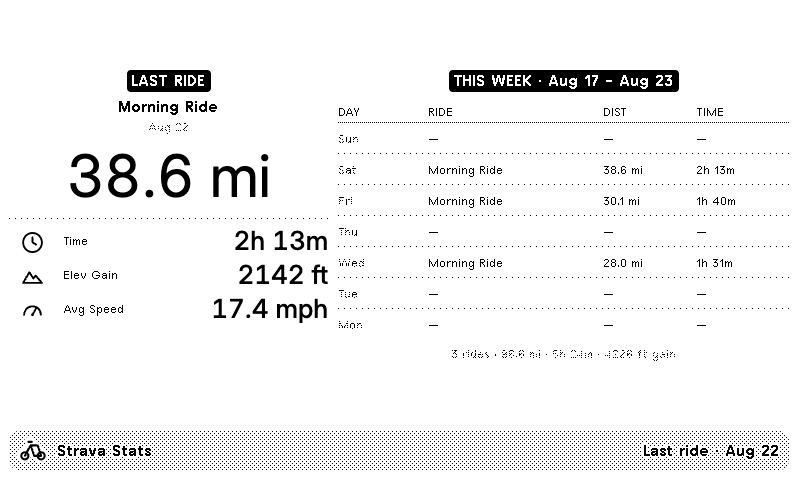
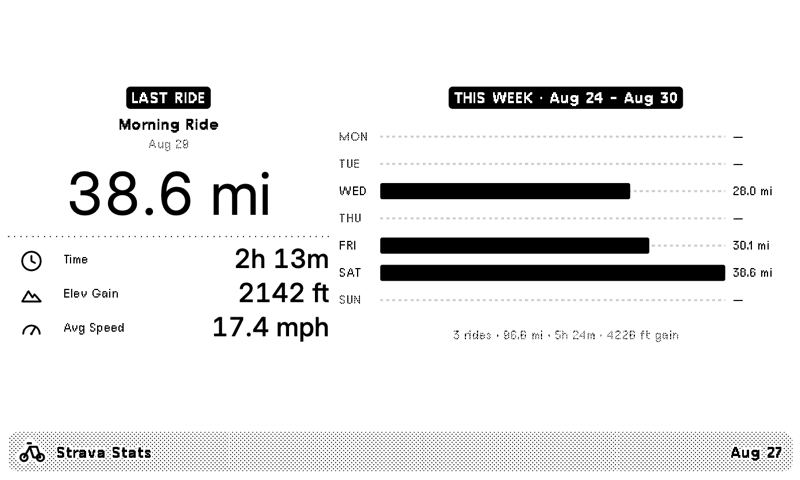
Replace THIS WEEK table with a bar chart on the full layout
Each day now renders as a horizontal bar sized relative to the week's
longest ride, instead of a dense DAY/RIDE/DIST/TIME table — easier to
scan at a glance, especially with rest days. transform.js now emits a
raw distanceValue per day (in addition to the formatted distance
string) so the Liquid template can size bars without reparsing text.

Also swaps the title bar's bottom-right date for today's date instead
of repeating the last-ride date already shown in the LAST RIDE panel.

diff --git a/src/transform.js b/src/transform.js
@@ -123,9 +123,17 @@ async function run(input) {
     return meters * 3.28084;
   }
 
+  // Raw distance in the display unit, rounded to the same precision
+  // `formatDistance` prints — so a day's bar-chart width (computed from this
+  // in the Liquid templates) always agrees with its printed distance label.
+  function distanceValue(meters, unit) {
+    const raw = unit === "Kilometers" ? meters / 1000 : metersToMiles(meters);
+    return Math.round(raw * 10) / 10;
+  }
+
   function formatDistance(meters, unit) {
-    if (unit === "Kilometers") return `${(meters / 1000).toFixed(1)} km`;
-    return `${metersToMiles(meters).toFixed(1)} mi`;
+    if (unit === "Kilometers") return `${distanceValue(meters, unit).toFixed(1)} km`;
+    return `${distanceValue(meters, unit).toFixed(1)} mi`;
   }
 
   function formatElevation(meters, unit) {
@@ -215,7 +223,7 @@ async function run(input) {
     const dayActivities = ridesByDate[dateKey] || [];
 
     if (dayActivities.length === 0) {
-      days.push({ dayLabel, hasRide: false, name: null, distance: null, movingTime: null });
+      days.push({ dayLabel, hasRide: false, name: null, distance: null, distanceValue: 0, movingTime: null });
       continue;
     }
 
@@ -233,6 +241,7 @@ async function run(input) {
       hasRide: true,
       name: dayActivities.length === 1 ? sanitizeString(dayActivities[0].name, "Ride") : `${dayActivities.length} rides`,
       distance: formatDistance(dayTotals.distanceMeters, distanceUnit),
+      distanceValue: distanceValue(dayTotals.distanceMeters, distanceUnit),
       movingTime: formatDuration(dayTotals.movingSeconds)
     });
   }
